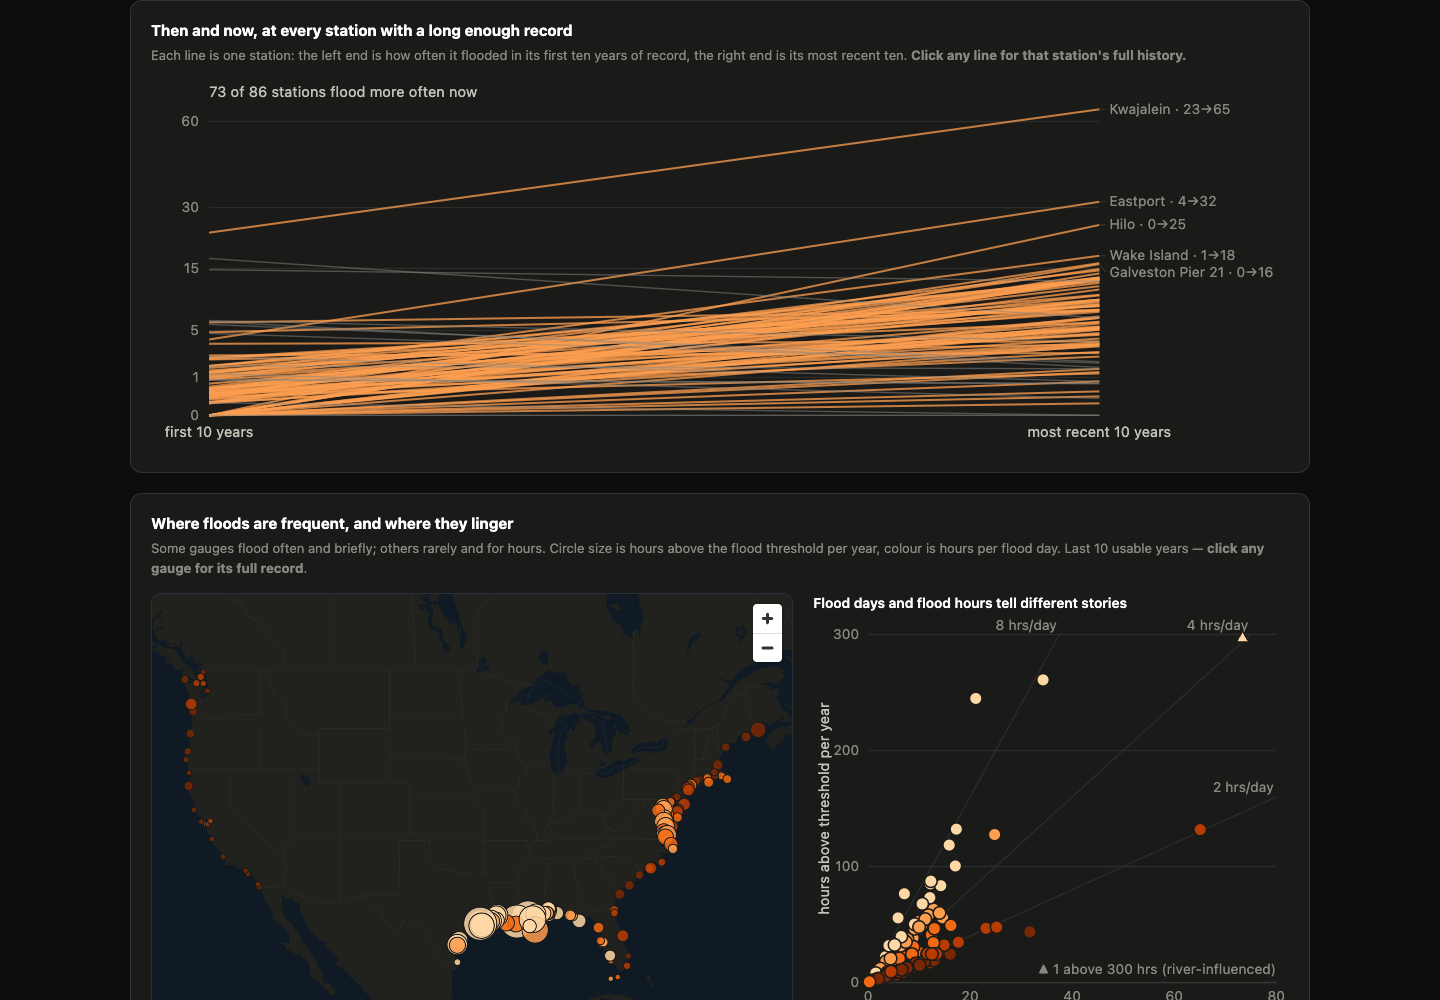
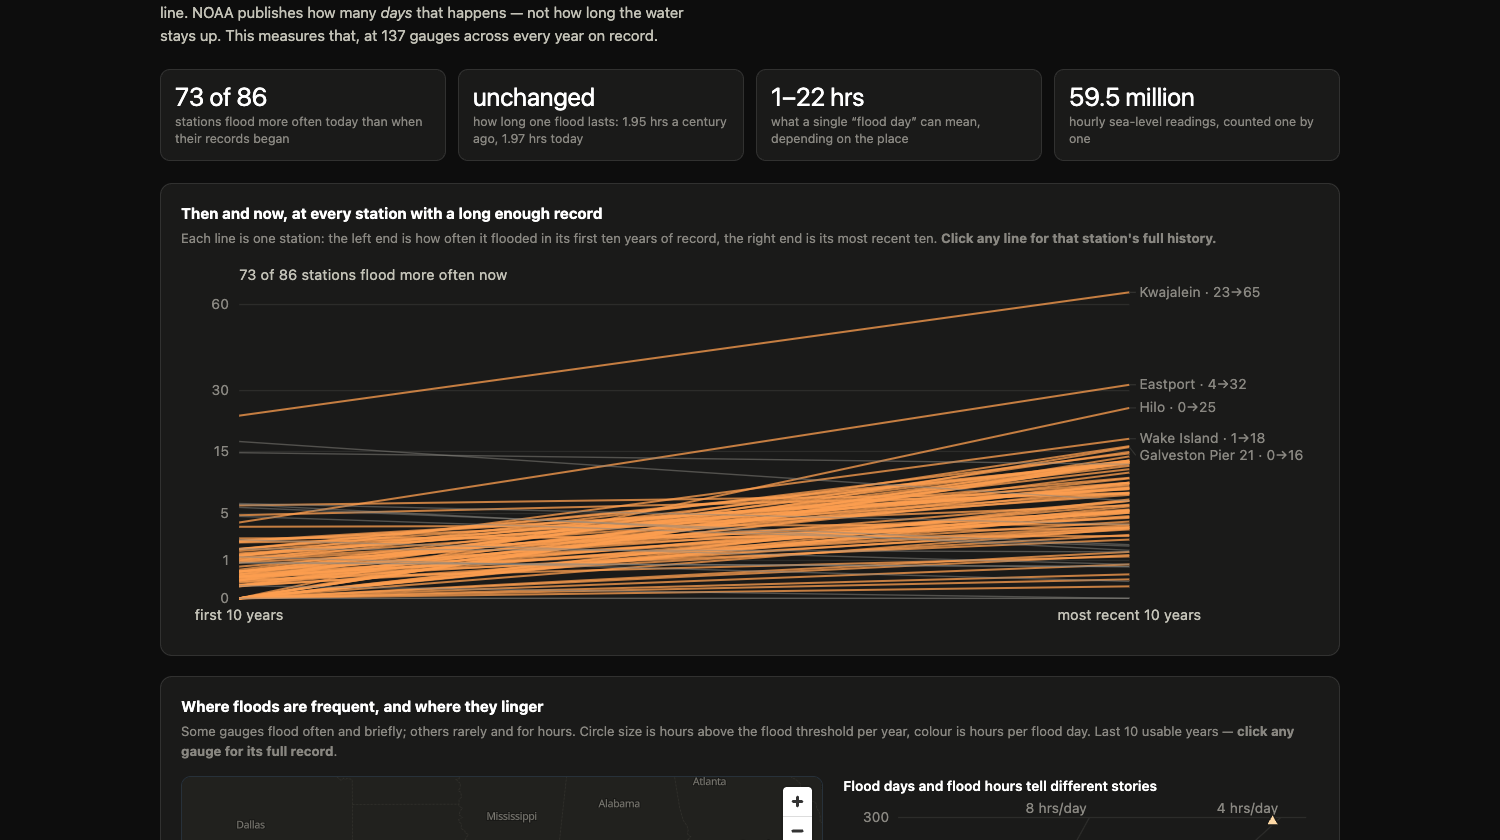
Blog: three screenshots to match the three views, framed to the panels
The section said "three views of the same data" and showed two, and both were
viewport captures that cut panels in half -- the map was clipped in one and the
station table was sliced across the top of the other.

Recaptured against the live site with the viewport sized to each panel: the slope
chart, the map with its scatter, and one station's full record with Galveston
selected. The third was missing entirely and is the one that shows the finding
most directly, since both of its panels have the same shape.

Also dropped the "three views of the same data" line. The images now introduce
themselves and the sentence was only there to announce a count.

diff --git a/blog/noaa-counts-days-i-counted-hours.md b/blog/noaa-counts-days-i-counted-hours.md
@@ -90,15 +90,17 @@ Storage cost for the basemap: about a cent a month.
 
 ## What The Site Shows
 
-Three views of the same data.
-
-![The headline figures and the slope chart of every long-record station](site-chart.png)
+![The slope chart: every long-record station, first ten years against most recent](site-chart.png)
 
 The slope chart is the one I'd point at. Each line is a station, left end its first ten years of record, right end its most recent. 73 rise, 13 stay flat. That's the claim from the top of this post, drawn rather than asserted.
 
 ![The map and the frequency-versus-duration scatter](site-map.png)
 
-The map is where and the scatter is how the two numbers relate: across is how often a station floods, up is total hours a year. High and left means rare but long. Low and right means often but brief. Clicking anything opens that station's full century underneath.
+The map is where, and the scatter is how the two numbers relate: across is how often a station floods, up is total hours a year. High and left means rare but long. Low and right means often but brief.
+
+![One station's full record, flood days above and flood hours below](site-station.png)
+
+Clicking any station opens its century underneath. Galveston is a good one to look at — both panels have the same shape, which is what "more floods, same length" looks like when you draw it.
 
 There is no API and no database. The daily job precomputes everything into static files, so the site is one HTML page reading JSON from the same bucket. Nothing runs at request time.
 
@@ -112,11 +114,11 @@ The fix was a one-line User-Agent. I also added a short pause between stations, 
 
 Through all of it the published data never moved. The job refuses to publish when too few stations refresh, so both failed runs left yesterday's numbers live instead of overwriting 137 stations with nothing. That check was the one piece of the pipeline I'd recommend to anyone building something similar.
 
-## Is It Worth Building?
+## What I'd Keep
 
-For the dataset, yes. Duration made comparable across thousands of station-years didn't exist in queryable form, and now it does. The science isn't new — the metric is standard and the geographic pattern is published — but the artifact wasn't there.
+The dataset was worth making. Duration across thousands of station-years wasn't available anywhere in a form you could query, and now it is. None of the science is new — the metric is standard, the pattern is published — but nobody had put the numbers somewhere you could download them.
 
-For the engineering, the parts I'd reuse tomorrow are the byte-range basemap and the refuse-to-publish guard. Both are small, both solved a real problem, and neither took long.
+Two pieces of the build I'd use again. The basemap read by byte range, because it removed a paid service and a runtime dependency for the cost of one file in S3. And the check that stops the daily job publishing when too few stations come back, which is what kept the site correct while NOAA was blocking me.
 
 Code, methods and the full dataset: [github.com/ajithmanmu/coastal-flood-days](https://github.com/ajithmanmu/coastal-flood-days)
 
